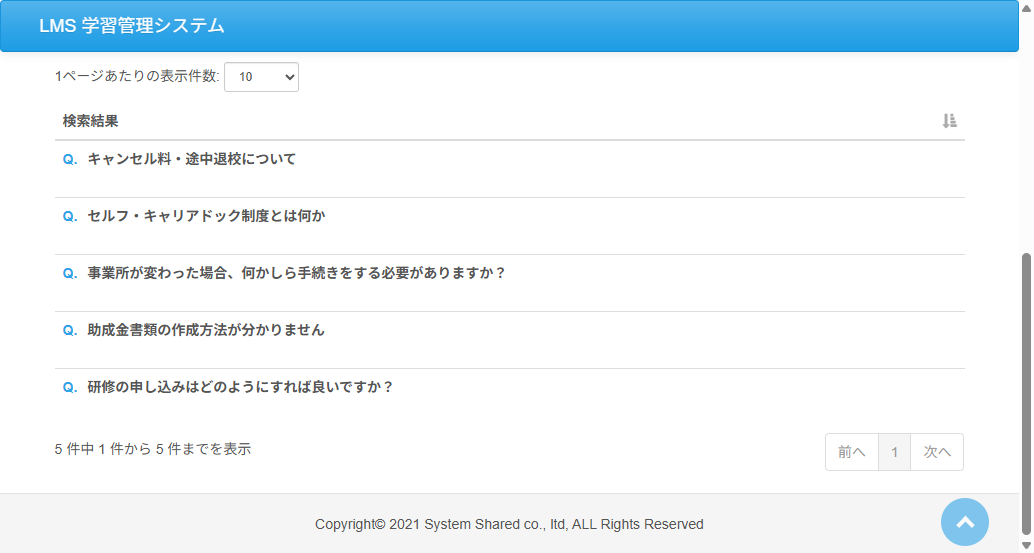
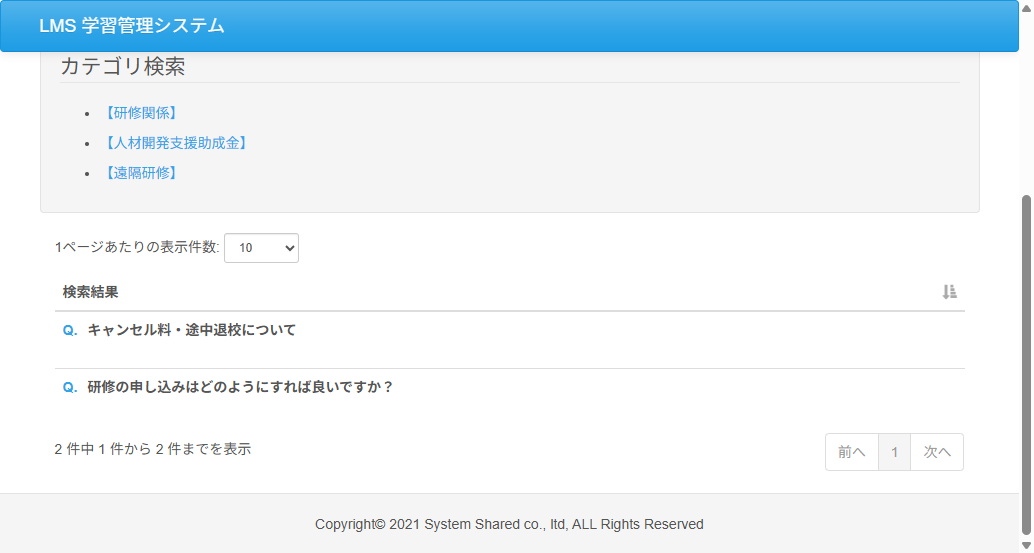
fix:Case06.java よくある質問画面への遷移テストコードを編集 WebElementを利用してログイン後に「よくある質問」まで遷移。その後検索キーワードに入力し、検索、検索結果を取得
add:RP_2_10_結合テスト仕様書の仕様書追記
ケース05・06の操作及び期待値のテストを実施

add:evidenceフォルダー追記
ケース05/06のエヴィデンスキャプチャーを追加

diff --git a/test_code_creation_name/src/test/java/jp/co/sss/lms/ct/f02_faq/Case06.java b/test_code_creation_name/src/test/java/jp/co/sss/lms/ct/f02_faq/Case06.java
@@ -131,6 +131,7 @@ public class Case06 {
 	void test05() {
 		//キーワードの入力要素お取得
 		WebElement keyword = webDriver.findElement(By.linkText("【研修関係】"));
+		keyword.click();
 
 		scrollBy("window.innerHeight");
 		pageLoadTimeout(5);
